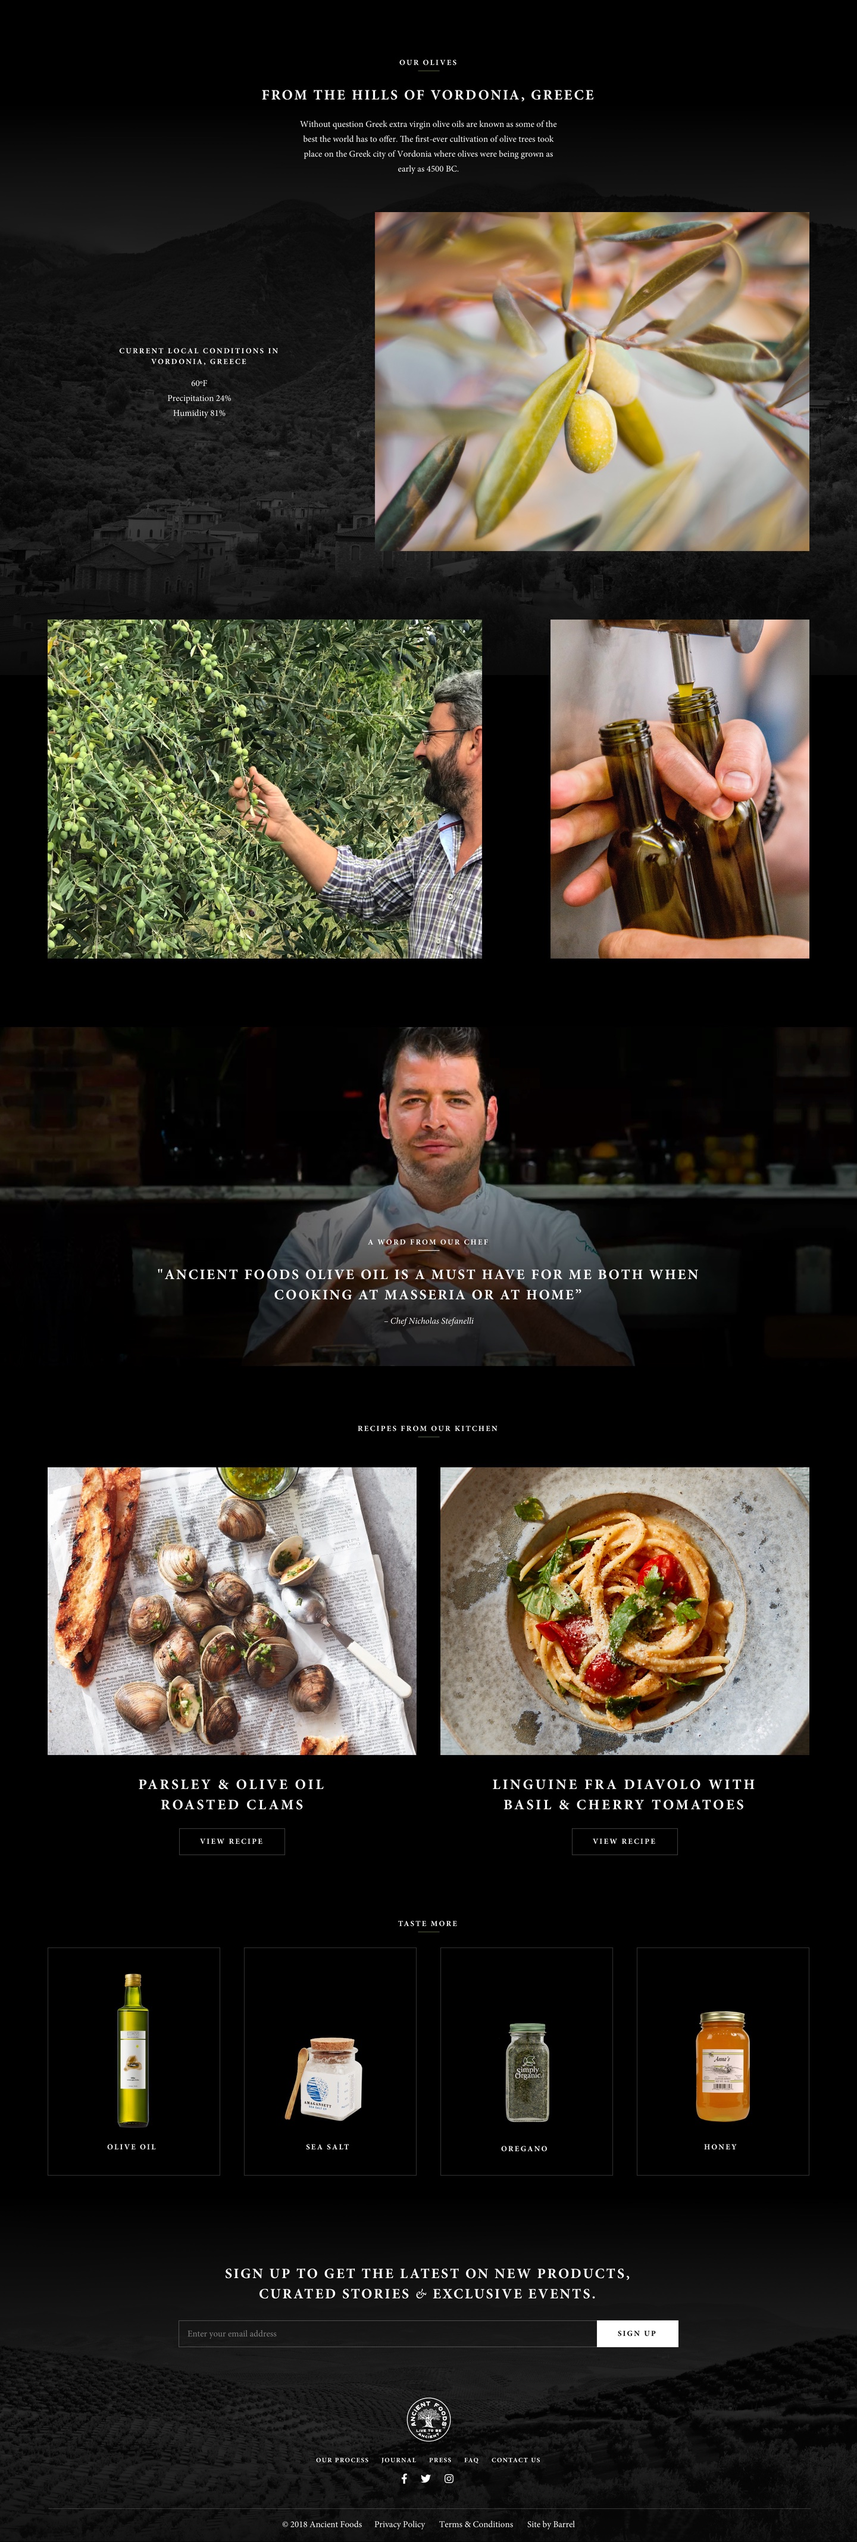
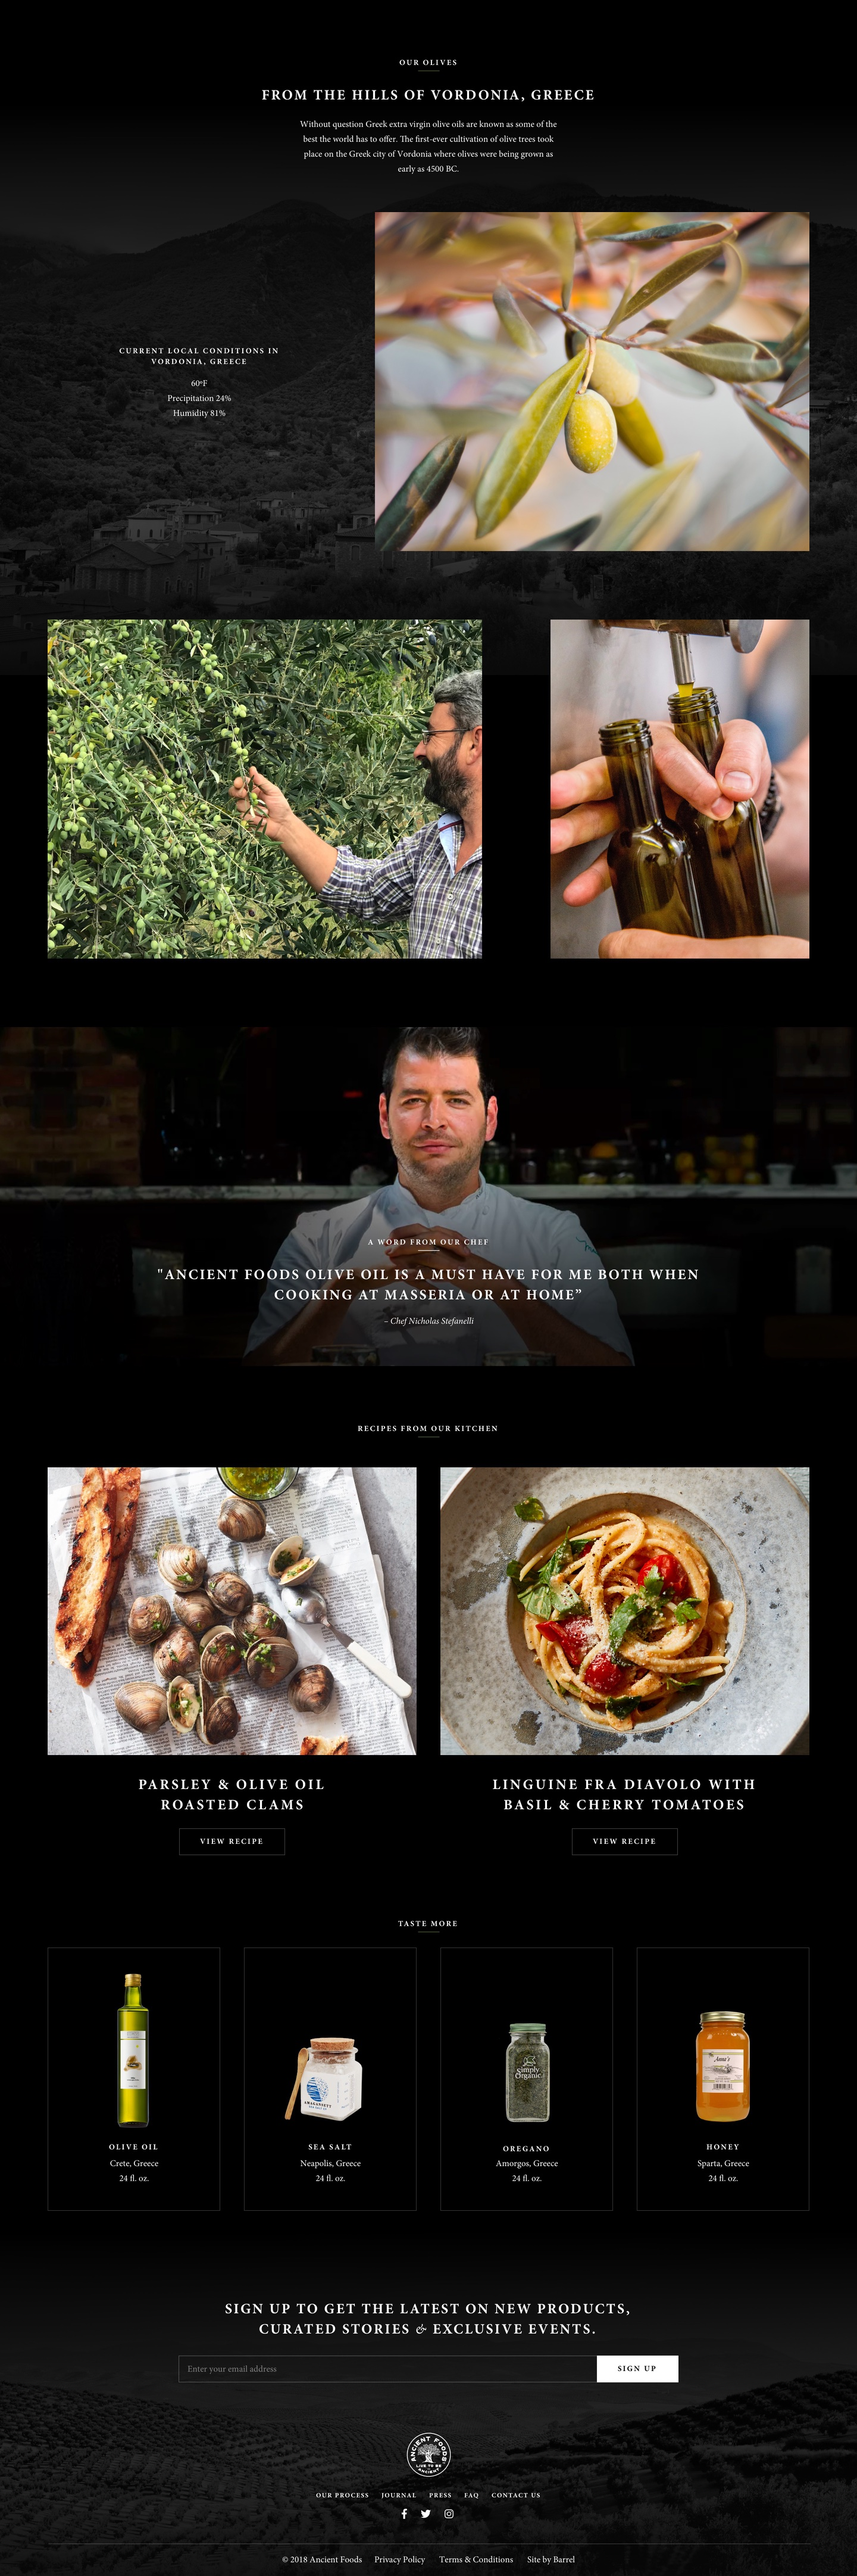
Add porduct info under product grid item

diff --git a/ancient_foods/creative_concepts/b/index.hyperesources/index_hype_generated_script.js b/ancient_foods/creative_concepts/b/index.hyperesources/index_hype_generated_script.js
@@ -3,5 +3,5 @@
 (function(){(function k(){function l(a,b,d){var c=!1;null==window[a]&&(null==window[b]?(window[b]=[],window[b].push(k),a=document.getElementsByTagName("head")[0],b=document.createElement("script"),c=h,false==!0&&(c=""),b.type="text/javascript",b.src=c+"/"+d,a.appendChild(b)):window[b].push(k),c=!0);return c}var h="index.hyperesources",c="index",e="index_hype_container";if(false==!1)try{for(var f=document.getElementsByTagName("script"),
 a=0;a<f.length;a++){var b=f[a].src,d=null!=b?b.indexOf("/index_hype_generated_script.js"):-1;if(-1!=d){h=b.substr(0,d);break}}}catch(n){}if(false==!1&&(a=navigator.userAgent.match(/MSIE (\d+\.\d+)/),a=parseFloat(a&&a[1])||null,a=l("HYPE_596","HYPE_dtl_596",!0==(null!=a&&10>a||false==!0)?"HYPE-596.full.min.js":"HYPE-596.thin.min.js"),false==!0&&(a=a||l("HYPE_w_596","HYPE_wdtl_596","HYPE-596.waypoints.min.js")),a))return;f=window.HYPE.documents;
 if(null!=f[c]){b=1;a=c;do c=""+a+"-"+b++;while(null!=f[c]);d=document.getElementsByTagName("div");b=!1;for(a=0;a<d.length;a++)if(d[a].id==e&&null==d[a].getAttribute("HYP_dn")){var b=1,g=e;do e=""+g+"-"+b++;while(null!=document.getElementById(e));d[a].id=e;b=!0;break}if(!1==b)return}b=[];b=[{name:"fixedSlideDownNav",source:"function(hypeDocument, element, event) {\n\t\t\n\tmenu = hypeDocument.getElementById('menu');\n\n\twindow.onscroll = function(){\n\t\tvar scroll = window.pageYOffset || (document.body.scrollTop || document.documentElement.scrollTop);\n\t\t\n\t\tvar menuDelta = 250;\n\t\tvar menuFadeOut = 9000;\n\n\t\tif (scroll > menuDelta){\n\t\t\tmenu.classList.add('sticky')\n\t\t}\n\t\tif (scroll <= menuDelta){\n\t\t\tmenu.classList.remove('sticky')\n\t\t}\n\t\tif (scroll > menuFadeOut){\n\t\t\tmenu.classList.remove('sticky')\n\t\t}\n\t};\t\n\t\n\n\t\n}",identifier:"32"}];d={};g={};for(a=0;a<b.length;a++)try{g[b[a].identifier]=b[a].name,d[b[a].name]=eval("(function(){return "+b[a].source+"})();")}catch(m){window.console&&window.console.log(m),d[b[a].name]=
-function(){}}a=new HYPE_596(c,e,{"10":{p:1,n:"pdp-bottom_2x.jpg",g:"22",o:true,t:"@2x"},"2":{p:1,n:"homepage-content_2x.jpg",g:"5",o:true,t:"@2x"},"-2":{n:"blank.gif"},"3":{p:1,n:"homepage-hero.png",g:"7",o:true,t:"@1x"},"11":{p:1,n:"fixed-nav.jpg",g:"36",o:true,t:"@1x"},"4":{p:1,n:"homepage-hero_2x.png",g:"7",o:true,t:"@2x"},"5":{n:"concept-b-hp-ambient.mp4",g:"11",t:"video/mp4"},"12":{p:1,n:"fixed-nav_2x.jpg",g:"36",o:true,t:"@2x"},"6":{n:"concept-b-pdp-ambient.mp4",g:"20",t:"video/mp4"},"13":{p:1,n:"main-dropdown.jpg",g:"24",o:true,t:"@1x"},"7":{p:1,n:"pdp-top.jpg",g:"16",o:true,t:"@1x"},"-1":{n:"PIE.htc"},"0":{n:"concept-b-hp-hero.mp4",g:"9",t:"video/mp4"},"8":{p:1,n:"pdp-top_2x.jpg",g:"16",o:true,t:"@2x"},"14":{p:1,n:"main-dropdown_2x.jpg",g:"24",o:true,t:"@2x"},"1":{p:1,n:"homepage-content.jpg",g:"5",o:true,t:"@1x"},"9":{p:1,n:"pdp-bottom.jpg",g:"22",o:true,t:"@1x"}},h,[],d,[{n:"Homepage",o:"1",X:[0]},{n:"PDP",o:"13",X:[1]}],[{A:{a:[{p:4,h:"32"}]},o:"3",p:"600px",cA:false,Y:1440,Z:4783,c:"#FFFFFF",L:[],bY:1,d:1440,U:{},T:{"26":{i:"26",n:"main-drodpdown-hover",z:0.09,b:[],a:[{y:0,i:"cY",s:"0",z:0,o:"43",f:"c"},{f:"c",y:0,z:0.09,i:"e",e:1,s:0,o:"43"},{y:0,i:"cY",s:"1",z:0,o:"41",f:"c"},{y:0,i:"cY",s:"0",z:0,o:"44",f:"c"},{y:0.09,i:"cY",s:"0",z:0,o:"38",f:"c"},{y:0.09,i:"e",s:1,z:0,o:"43",f:"c"}],f:30},"29":{i:"29",n:"main-dropdown-exit",z:0.09,b:[],a:[{y:0,i:"cY",s:"0",z:0,o:"43",f:"c"},{f:"c",y:0,z:0.09,i:"e",e:0,s:1,o:"43"},{y:0,i:"cY",s:"0",z:0,o:"41",f:"c"},{y:0,i:"cY",s:"1",z:0,o:"44",f:"c"},{y:0.09,i:"e",s:0,z:0,o:"43",f:"c"}],f:30},kTimelineDefaultIdentifier:{i:"kTimelineDefaultIdentifier",n:"Main Timeline",z:22,b:[],a:[{y:0,p:1,i:"Video Track",z:20.29,o:"46",f:"a"},{y:0,p:1,i:"Video Track",z:21.3,o:"42",f:"a"}],f:30}},bZ:180,O:["39","40","43","46","44","41","38","45","42"],n:"Untitled Layout","_":0,v:{"39":{h:"36",p:"no-repeat",x:"visible",i:"menu",q:"100% 100%",b:-90,a:0,j:"absolute",z:9,k:"div",dB:"img",d:90,c:1440,r:"inline"},"42":{aR:"1",x:"visible",bE:"11",a:80,b:1381,j:"absolute",c:730,k:"video",z:4,d:750,aO:"0",aQ:"1",aH:"1"},"45":{h:"5",p:"no-repeat",x:"visible",a:0,q:"100% 100%",b:740,j:"absolute",dB:"img",z:2,k:"div",c:1440,d:4043.3299999999999,r:"inline"},"40":{h:"7",p:"no-repeat",x:"visible",a:0,q:"100% 100%",b:0,j:"absolute",dB:"img",z:3,k:"div",c:1440,d:740,r:"inline"},"43":{h:"24",p:"no-repeat",x:"visible",a:0,q:"100% 100%",b:40,j:"absolute",cY:"1",z:5,k:"div",dB:"img",d:370,c:1440,r:"inline",e:1},"38":{c:411,d:180,I:"Solid",cY:"1",e:0,J:"Solid",K:"Solid",g:"#E8EBED",L:"Solid",aP:"pointer",M:1,N:1,A:"#D8DDE4",x:"visible",aA:{a:[{d:1.1000000000000001,p:1,g:1,e:"13"}]},O:1,j:"absolute",k:"div",dB:"button",z:8,C:"#D8DDE4",D:"#D8DDE4",B:"#D8DDE4",P:1,a:80,b:161},"46":{dA:"0",aR:"1",x:"visible",bE:"9",a:0,b:40,j:"absolute",c:1440,k:"video",z:1,d:700,aO:"0",aQ:"1",aH:"1"},"41":{c:68,d:79,I:"Solid",cY:"0",e:0,J:"Solid",K:"Solid",g:"#FF0000",L:"Solid",aP:"pointer",M:1,N:1,A:"#F9000B",x:"visible",aA:{a:[{b:"26",p:3,z:false,symbolOid:"2"}]},O:1,j:"absolute",k:"div",dB:"button",z:6,C:"#F9000B",D:"#F9000B",B:"#F9000B",P:1,a:70,b:40},"44":{c:68,d:79,I:"Solid",cY:"1",e:0,J:"Solid",K:"Solid",g:"#0C00F7",L:"Solid",aP:"pointer",M:1,N:1,A:"#D8DDE4",x:"visible",aA:{a:[{b:"29",p:3,z:false,symbolOid:"2"}]},O:1,j:"absolute",k:"div",dB:"button",z:7,C:"#D8DDE4",D:"#D8DDE4",B:"#D8DDE4",P:1,a:70,b:40}}},{A:{a:[{p:4,h:"32"}]},o:"15",p:"600px",cA:false,Y:1440,Z:6155,c:"#FFFFFF",L:[],bY:1,d:1440,U:{},T:{kTimelineDefaultIdentifier:{i:"kTimelineDefaultIdentifier",n:"Main Timeline",z:9.24,b:[],a:[{y:0,p:1,i:"Video Track",z:9.24,o:"48",f:"a"}],f:30}},bZ:180,O:["47","49","48","50"],n:"Untitled Layout","_":1,v:{"49":{c:100,d:100,I:"Solid",e:0,J:"Solid",K:"Solid",g:"#E8EBED",L:"Solid",aP:"pointer",M:1,N:1,A:"#D8DDE4",x:"visible",aA:{a:[{d:1.1000000000000001,p:1,g:1,e:"1"}]},O:1,j:"absolute",k:"div",dB:"button",z:5,C:"#D8DDE4",D:"#D8DDE4",B:"#D8DDE4",P:1,a:669,b:40},"50":{h:"22",p:"no-repeat",x:"visible",a:0,q:"100% 100%",b:1888,j:"absolute",dB:"img",z:4,k:"div",c:1440,d:4267,r:"inline"},"48":{aR:"1",x:"visible",bE:"20",a:0,b:1319,j:"absolute",c:1440,k:"video",z:3,d:570,aO:"0",aQ:"1",aH:"1"},"47":{h:"16",p:"no-repeat",x:"visible",a:0,q:"100% 100%",b:0,j:"absolute",dB:"img",z:1,k:"div",c:1440,d:1319,r:"inline"}}}],{},g,{},null,false,true,-1,true,true,false,true);f[c]=a.API;document.getElementById(e).setAttribute("HYP_dn",
+function(){}}a=new HYPE_596(c,e,{"10":{p:1,n:"main-dropdown_2x.jpg",g:"24",o:true,t:"@2x"},"2":{p:1,n:"homepage-hero_2x.png",g:"7",o:true,t:"@2x"},"-2":{n:"blank.gif"},"3":{n:"concept-b-hp-ambient.mp4",g:"11",t:"video/mp4"},"11":{p:1,n:"homepage-content.jpg",g:"38",o:true,t:"@1x"},"4":{n:"concept-b-pdp-ambient.mp4",g:"20",t:"video/mp4"},"5":{p:1,n:"pdp-top.jpg",g:"16",o:true,t:"@1x"},"12":{p:1,n:"homepage-content_2x.jpg",g:"38",o:true,t:"@2x"},"6":{p:1,n:"pdp-top_2x.jpg",g:"16",o:true,t:"@2x"},"13":{p:1,n:"pdp-bottom.jpg",g:"42",o:true,t:"@1x"},"7":{p:1,n:"fixed-nav.jpg",g:"36",o:true,t:"@1x"},"-1":{n:"PIE.htc"},"0":{n:"concept-b-hp-hero.mp4",g:"9",t:"video/mp4"},"8":{p:1,n:"fixed-nav_2x.jpg",g:"36",o:true,t:"@2x"},"14":{p:1,n:"pdp-bottom_2x.jpg",g:"42",o:true,t:"@2x"},"1":{p:1,n:"homepage-hero.png",g:"7",o:true,t:"@1x"},"9":{p:1,n:"main-dropdown.jpg",g:"24",o:true,t:"@1x"}},h,[],d,[{n:"Homepage",o:"1",X:[0]},{n:"PDP",o:"13",X:[1]}],[{A:{a:[{p:4,h:"32"}]},o:"3",p:"600px",cA:false,Y:1440,Z:4831,c:"#FFFFFF",L:[],bY:1,d:1440,U:{},T:{"26":{i:"26",n:"main-drodpdown-hover",z:0.09,b:[],a:[{y:0,i:"cY",s:"0",z:0,o:"49",f:"c"},{f:"c",y:0,z:0.09,i:"e",e:1,s:0,o:"49"},{y:0,i:"cY",s:"1",z:0,o:"47",f:"c"},{y:0,i:"cY",s:"0",z:0,o:"50",f:"c"},{y:0.09,i:"cY",s:"0",z:0,o:"44",f:"c"},{y:0.09,i:"e",s:1,z:0,o:"49",f:"c"}],f:30},"29":{i:"29",n:"main-dropdown-exit",z:0.09,b:[],a:[{y:0,i:"cY",s:"0",z:0,o:"49",f:"c"},{f:"c",y:0,z:0.09,i:"e",e:0,s:1,o:"49"},{y:0,i:"cY",s:"0",z:0,o:"47",f:"c"},{y:0,i:"cY",s:"1",z:0,o:"50",f:"c"},{y:0.09,i:"e",s:0,z:0,o:"49",f:"c"}],f:30},kTimelineDefaultIdentifier:{i:"kTimelineDefaultIdentifier",n:"Main Timeline",z:22,b:[],a:[{y:0,p:1,i:"Video Track",z:20.29,o:"51",f:"a"},{y:0,p:1,i:"Video Track",z:21.3,o:"48",f:"a"}],f:30}},bZ:180,O:["45","46","49","51","50","47","44","52","48"],n:"Untitled Layout","_":0,v:{"52":{h:"38",p:"no-repeat",x:"visible",a:0,q:"100% 100%",b:740,j:"absolute",dB:"img",z:1,k:"div",c:1440,d:4091,r:"inline"},"47":{c:68,d:79,I:"Solid",cY:"0",e:0,J:"Solid",K:"Solid",g:"#FF0000",L:"Solid",aP:"pointer",M:1,N:1,A:"#F9000B",x:"visible",aA:{a:[{b:"26",p:3,z:false,symbolOid:"2"}]},O:1,j:"absolute",k:"div",dB:"button",z:7,C:"#F9000B",D:"#F9000B",B:"#F9000B",P:1,a:70,b:40},"50":{c:68,d:79,I:"Solid",cY:"1",e:0,J:"Solid",K:"Solid",g:"#0C00F7",L:"Solid",aP:"pointer",M:1,N:1,A:"#D8DDE4",x:"visible",aA:{a:[{b:"29",p:3,z:false,symbolOid:"2"}]},O:1,j:"absolute",k:"div",dB:"button",z:8,C:"#D8DDE4",D:"#D8DDE4",B:"#D8DDE4",P:1,a:70,b:40},"45":{h:"36",p:"no-repeat",x:"visible",i:"menu",q:"100% 100%",b:-90,a:0,j:"absolute",z:10,k:"div",dB:"img",d:90,c:1440,r:"inline"},"48":{aR:"1",x:"visible",bE:"11",a:80,b:1430,j:"absolute",c:730,k:"video",z:5,d:750,aO:"0",aQ:"1",aH:"1"},"51":{dA:"0",aR:"1",x:"visible",bE:"9",a:0,b:40,j:"absolute",c:1440,k:"video",z:2,d:700,aO:"0",aQ:"1",aH:"1"},"46":{h:"7",p:"no-repeat",x:"visible",a:0,q:"100% 100%",b:0,j:"absolute",dB:"img",z:4,k:"div",c:1440,d:740,r:"inline"},"49":{h:"24",p:"no-repeat",x:"visible",a:0,q:"100% 100%",b:40,j:"absolute",cY:"1",z:6,k:"div",dB:"img",d:370,c:1440,r:"inline",e:1},"44":{c:411,d:180,I:"Solid",cY:"1",e:0,J:"Solid",K:"Solid",g:"#E8EBED",L:"Solid",aP:"pointer",M:1,N:1,A:"#D8DDE4",x:"visible",aA:{a:[{d:1.1000000000000001,p:1,g:1,e:"13"}]},O:1,j:"absolute",k:"div",dB:"button",z:9,C:"#D8DDE4",D:"#D8DDE4",B:"#D8DDE4",P:1,a:80,b:161}}},{A:{a:[{p:4,h:"32"}]},o:"15",p:"600px",cA:false,Y:1440,Z:6213,c:"#FFFFFF",L:[],bY:1,d:1440,U:{},T:{kTimelineDefaultIdentifier:{i:"kTimelineDefaultIdentifier",n:"Main Timeline",z:9.24,b:[],a:[{y:0,p:1,i:"Video Track",z:9.24,o:"54",f:"a"}],f:30}},bZ:180,O:["53","55","54","56"],n:"Untitled Layout","_":1,v:{"54":{aR:"1",x:"visible",bE:"20",a:0,b:1319,j:"absolute",c:1440,k:"video",z:3,d:570,aO:"0",aQ:"1",aH:"1"},"53":{h:"16",p:"no-repeat",x:"visible",a:0,q:"100% 100%",b:0,j:"absolute",dB:"img",z:1,k:"div",c:1440,d:1319,r:"inline"},"56":{h:"42",p:"no-repeat",x:"visible",a:0,q:"100% 100%",b:1889,j:"absolute",dB:"img",z:6,k:"div",c:1440,d:4324,r:"inline"},"55":{c:100,d:100,I:"Solid",e:0,J:"Solid",K:"Solid",g:"#E8EBED",L:"Solid",aP:"pointer",M:1,N:1,A:"#D8DDE4",x:"visible",aA:{a:[{d:1.1000000000000001,p:1,g:1,e:"1"}]},O:1,j:"absolute",k:"div",dB:"button",z:5,C:"#D8DDE4",D:"#D8DDE4",B:"#D8DDE4",P:1,a:669,b:40}}}],{},g,{},null,false,true,-1,true,true,false,true);f[c]=a.API;document.getElementById(e).setAttribute("HYP_dn",
 c);a.z_o(this.body)})();})();

diff --git a/ancient_foods/creative_concepts/b/index.html b/ancient_foods/creative_concepts/b/index.html
@@ -47,8 +47,8 @@
   <body>
 	<!-- copy these lines to your document: -->
 
-	<div id="index_hype_container" style="margin:auto;position:relative;width:1440px;height:4783px;overflow:hidden;">
-		<script type="text/javascript" charset="utf-8" src="index.hyperesources/index_hype_generated_script.js?11177"></script>
+	<div id="index_hype_container" style="margin:auto;position:relative;width:1440px;height:4831px;overflow:hidden;">
+		<script type="text/javascript" charset="utf-8" src="index.hyperesources/index_hype_generated_script.js?55639"></script>
 	</div>
 
 	<!-- end copy -->
